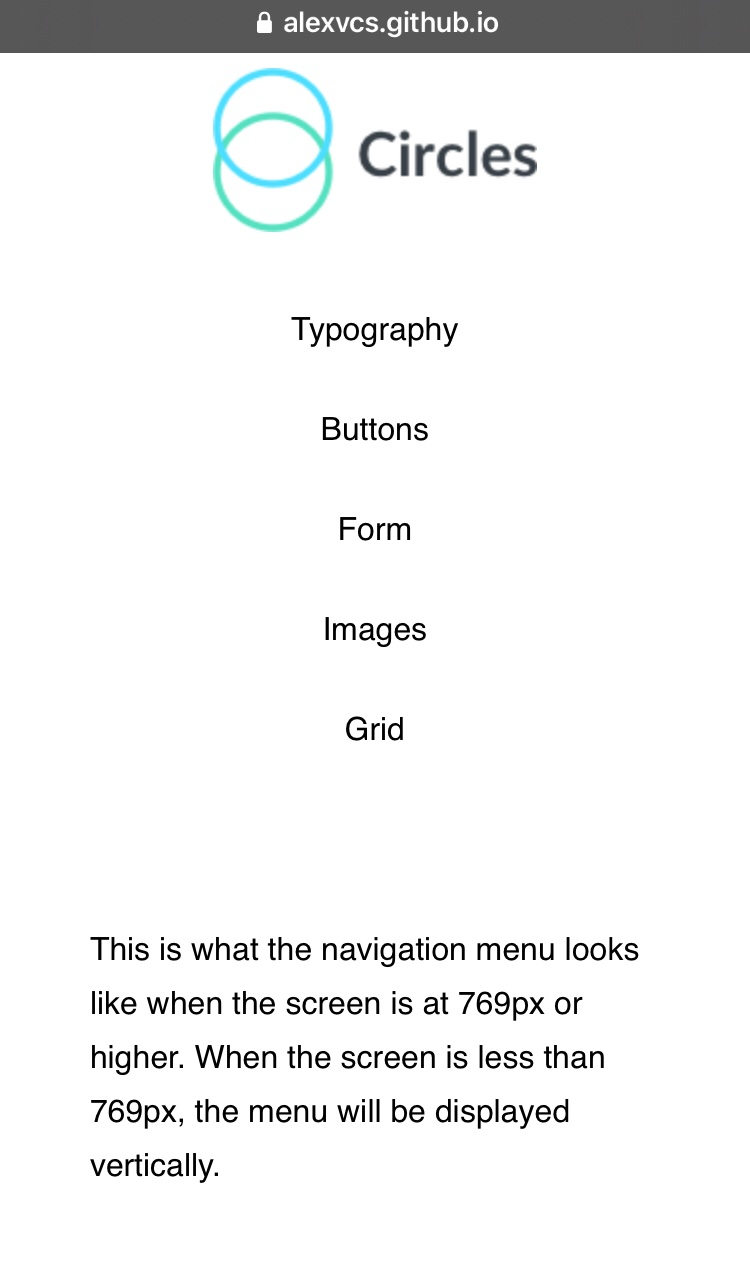
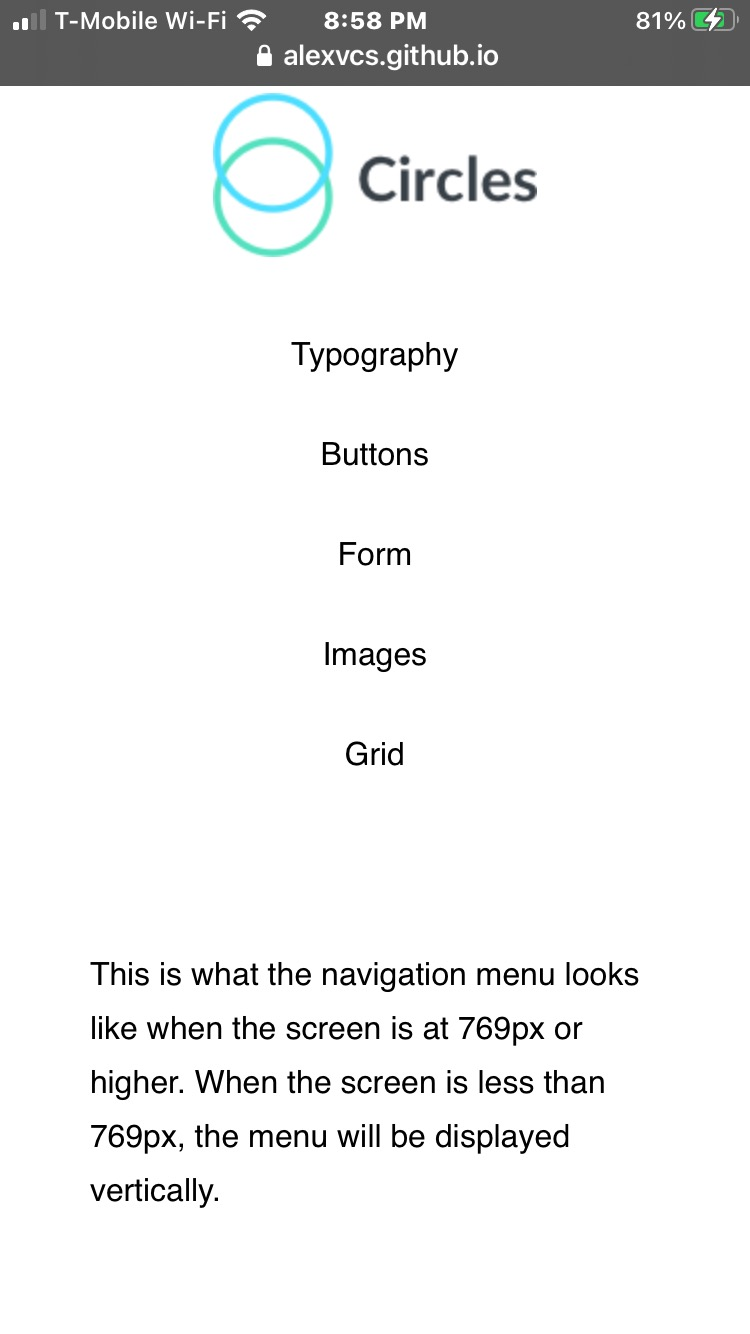
Added line-height css for top header and made #top p text the same at all viewports. Changed project screenshots.

diff --git a/assets/css/main.css b/assets/css/main.css
@@ -319,6 +319,7 @@ h1 {
   font-size: 3.25em;
   letter-spacing: -0.025em;
   font-weight: 300;
+  line-height: 45px;
 }
 
 h1 strong {
@@ -2367,9 +2368,6 @@ body > article {
     width: 15em;
     height: 15em;
     margin-bottom: 0;
-  }
-  #top p {
-    font-size: 1em;
   }
   #contact footer {
     margin: 0;

diff --git a/assets/scss/main.scss b/assets/scss/main.scss
@@ -347,6 +347,7 @@ h1 {
 	font-size: 3.25em;
 	letter-spacing: -0.025em;
 	font-weight: 300;
+	line-height: 45px;
 
 	strong {
 		font-weight: 700;
@@ -1362,9 +1363,9 @@ body > article {
 			margin-bottom: 0;
 		}
 
-		p {
-			font-size: 1em;
-		}
+		// p {
+		// 	font-size: 1em;
+		// }
 	}
 
 	#contact {
